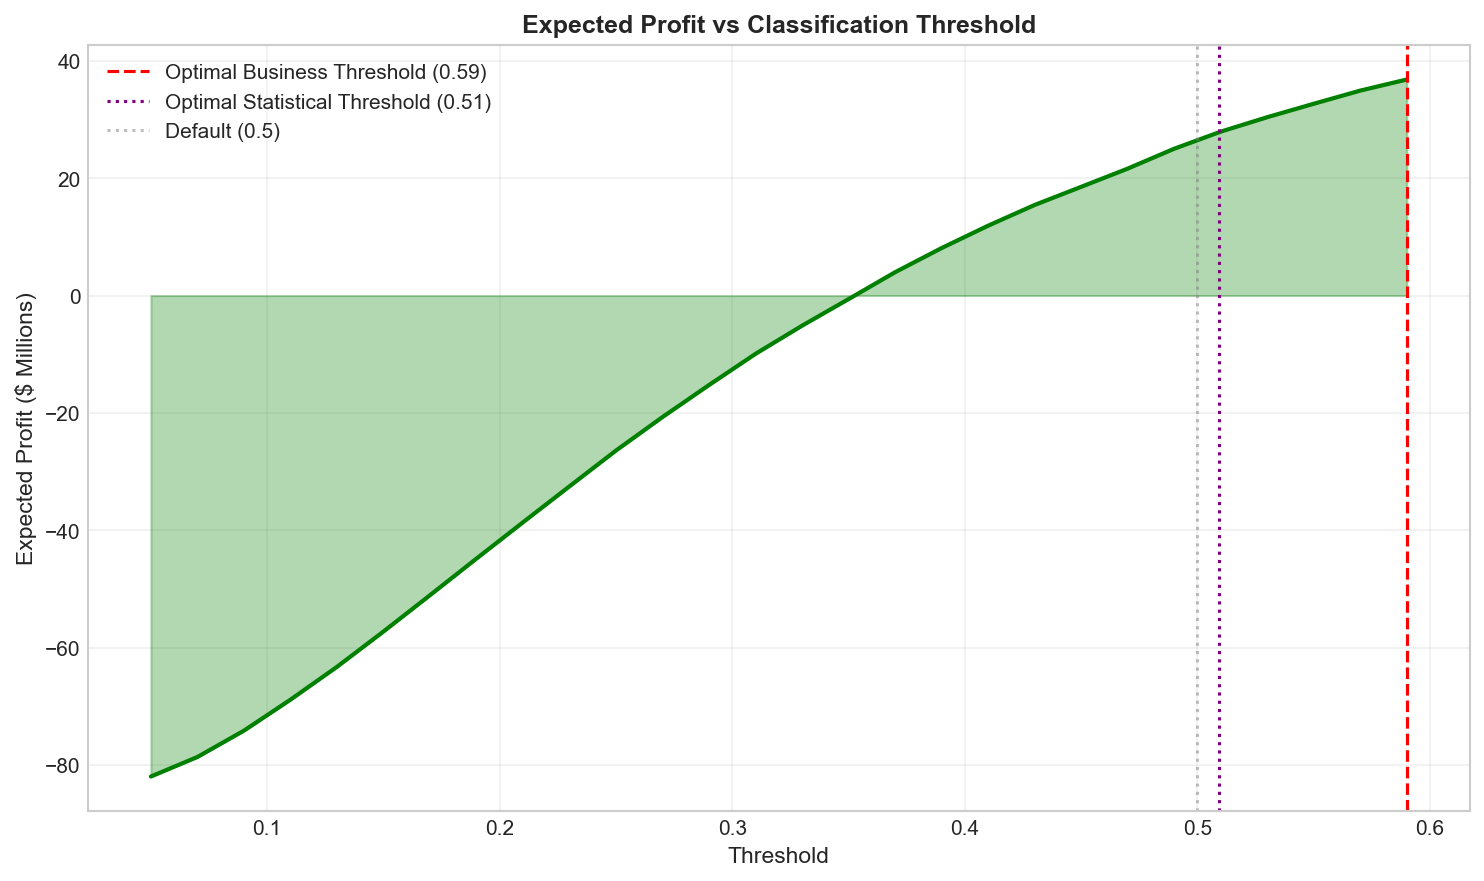
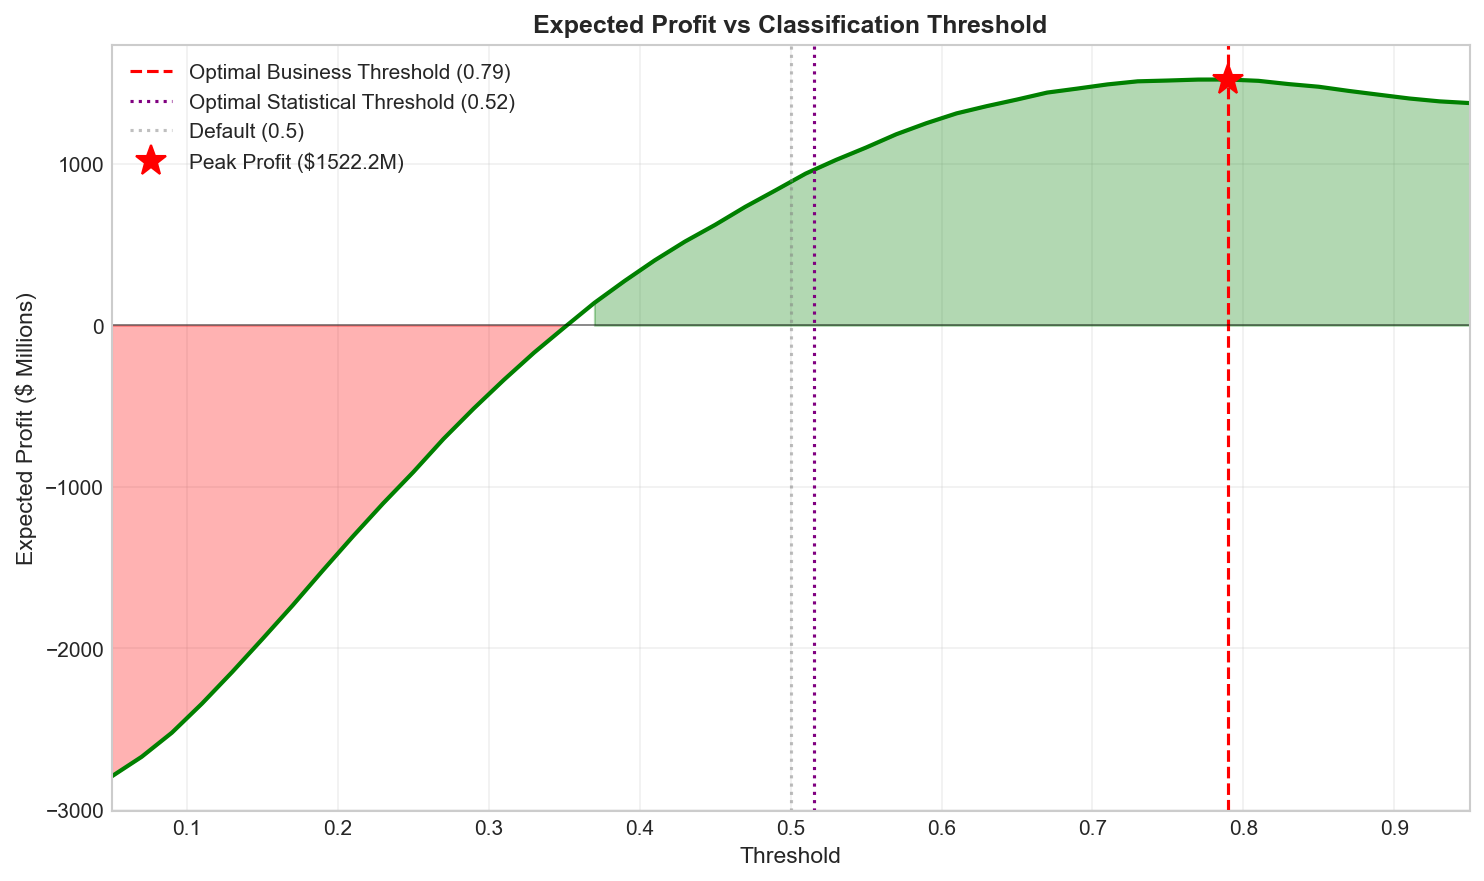
NB03: Add bibliographic references, fix truncated business threshold (0.59→0.79)
- Add inline citation comments for 4 academic papers across 5 code cells
  (Fluss 2005, Verbraken 2014, Bequé 2017, Yurdakul 2020)
- Fix threshold search range from [0.05,0.60) to [0.05,0.96): true
  business optimum is 0.79, not 0.59 (ISSUE-014)
- Improve profit-vs-threshold plot: green/red fill, peak marker, full range
- Update all three log files (ISSUE-014, DECISION-008, DECISION-018)

diff --git a/docs/log_files/technical-decisions.md b/docs/log_files/technical-decisions.md
@@ -25,6 +25,7 @@ Document key technical decisions, rationale, and alternatives considered during 
 - [DECISION-015] PSI Baseline for Concept Drift Monitoring
 - [DECISION-016] Calibration-Enhanced Evaluation (Brier Score + Decile Table)
 - [DECISION-017] Data-Driven Business Cost Parameters (Real AMT_CREDIT Median)
+- [DECISION-018] Bibliographic References as Inline Code Comments in NB03
 
 ### Pending Review
 - None
@@ -222,12 +223,12 @@ Document key technical decisions, rationale, and alternatives considered during 
 ---
 
 ### [DECISION-008] Dual Threshold Strategy (Statistical + Business)
-**Date:** 2026-01-25
+**Date:** 2026-01-25 (updated 2026-04-02)
 **Status:** Implemented
 **Context:** The default threshold (0.5) is arbitrary. Credit risk models need thresholds optimized for both statistical performance and business value.
 **Decision:** Calculate two optimal thresholds:
 - **Statistical optimal (Youden's J):** 0.5092 -- maximizes sensitivity + specificity
-- **Business optimal:** 0.5900 -- maximizes expected profit using cost parameters
+- **Business optimal:** 0.79 -- maximizes expected profit using cost parameters
 **Rationale:**
 - **Two separate concerns**: Statistical performance and business value often conflict
 - **Youden's J** provides the mathematically optimal balance of sensitivity/specificity
@@ -237,19 +238,19 @@ Document key technical decisions, rationale, and alternatives considered during 
   - Cost of default (FN): $308,119
   - Profit per good loan (FP cost): $51,353
   - FN/FP cost ratio: 6:1 (LGD/profit_margin = 0.60/0.10)
-- **Business threshold** maximizes expected profit
+- **Business threshold** maximizes expected profit across the full [0.05, 0.95] range
 - Both thresholds stored in `models/thresholds.pkl` for deployment flexibility
+- **2026-04-02 correction:** Previous threshold of 0.59 was a truncation artifact -- the search range `np.arange(0.05, 0.60, 0.02)` stopped before the true peak. Extended to 0.96 revealed the real optimum at 0.79. See ISSUE-014.
 **Alternatives Considered:**
 - Fixed threshold (0.5): Arbitrary, not optimized for either statistical or business criteria
 - Single threshold (statistical only): Ignores business economics
 - Multi-threshold strategy (like BAFS auto-block/manual review/auto-approve): Considered but simpler binary decision is more appropriate for credit approval (approve/reject)
 - Cost-sensitive learning (custom loss function): More complex, harder to validate
 **Consequences:**
-- At business threshold (0.59): Precision 0.2272, Recall 0.5531
-- Maximum profit: $36,819,000
-- Higher threshold (0.59 vs 0.50) means fewer rejections but some defaults slip through
+- At business threshold (0.79): Only loans with P(default) < 0.21 are approved -- conservative stance justified by 6:1 cost asymmetry
+- The 6:1 FN/FP cost ratio (LGD=60% / profit_margin=10%) means one bad loan wipes out the profit from six good ones, pushing the optimal threshold high
 - Decision shifts from "catch all defaults" to "maximize portfolio profitability"
-**Related:** `notebooks/03_model_training_evaluation.ipynb` (Sections 5-6)
+**Related:** `notebooks/03_model_training_evaluation.ipynb` (Sections 5-6), ISSUE-014
 
 ---
 
@@ -497,5 +498,37 @@ Document key technical decisions, rationale, and alternatives considered during 
 - Currency disclaimer added as a markdown blockquote before Section 6
 - DECISION-008 updated to reference data-driven values
 **Related:** `notebooks/03_model_training_evaluation.ipynb` (Section 6), DECISION-008
+
+---
+
+### [DECISION-018] Bibliographic References as Inline Code Comments in NB03
+**Date:** 2026-04-02
+**Status:** Implemented
+**Context:** Key technical methods in NB03 (Youden's J, profit-based classification, calibration, Brier Score, PSI) are grounded in academic literature. Adding citations directly in the code cells strengthens academic credibility and demonstrates domain awareness.
+**Decision:** Add 2-4 line inline reference comments at the top of 5 code cells in NB03, citing the foundational papers for each technique. Comments placed inside code cells (not separate markdown cells) to keep them co-located with the implementation.
+**References Added:**
+
+| Cell | Section | Paper |
+|------|---------|-------|
+| 16 | 5.1 ROC Curve | Fluss, Faraggi & Reiser (2005). Biometrical Journal, 47(4), 458-472 |
+| 23 | 6.2 Expected Profit | Verbraken, Bravo, Weber & Baesens (2014). EJOR, 238(2), 505-513 |
+| 30 | 8.1 Calibration Curve | Bequé, Coussement, Gayler & Lessmann (2017). KBS, 134, 213-227 |
+| 32 | 8.2 Brier Score | Bequé, Coussement, Gayler & Lessmann (2017). KBS, 134, 213-227 |
+| 34 | 8.3 PSI | Yurdakul & Naranjo (2020). J. Risk Model Validation, 14(4), 89-100 |
+
+**Rationale:**
+- **Co-located with code**: References are immediately visible when reading the implementation, not buried in separate markdown cells that may be skipped
+- **Interview readiness**: Demonstrates the candidate can trace implementation decisions to peer-reviewed research
+- **Accuracy verified**: Each paper-to-code mapping was verified against the actual formulas (Youden's J = TPR - FPR, PSI = sum formula, Brier = MSE of probabilities)
+- **Cell 23 nuance documented**: Comment explicitly notes the code is an "adapted profit-based framework" with fixed parameters, not the full EMP integration from Verbraken et al.
+**Alternatives Considered:**
+- Separate markdown cells per reference: Clutters the notebook structure; references are better as comments alongside the code they support
+- References only in a bibliography at the end: Not visible when reading individual sections
+- Footnotes in section headers: Would require modifying markdown cells and wouldn't be as directly tied to the code
+**Consequences:**
+- 5 code cells now have 4-5 additional comment lines each (no functional code changes)
+- Helper script `src/add_references.py` preserved for reproducibility (one-shot use)
+- References use standard academic citation format (Author (Year). "Title". Journal, Volume(Issue), Pages)
+**Related:** `notebooks/03_model_training_evaluation.ipynb` (Cells 16, 23, 30, 32, 34)
 
 ---

diff --git a/docs/log_files/notebooks-progress.md b/docs/log_files/notebooks-progress.md
@@ -139,7 +139,7 @@
 | 2. Data Preparation | Label encoding for 16 categorical columns, stratified train/test split |
 | 3. Train XGBoost Model | 200 estimators, scale_pos_weight=11.39 |
 | 4. Cross-Validation | 5-Fold stratified CV: Mean AUC 0.7757 (+/-0.0037) |
-| 5. Threshold Optimization | Youden's J (0.5092) and business optimal (0.59) |
+| 5. Threshold Optimization | Youden's J (0.5092) and business optimal (0.79) |
 | Currency disclaimer | Note on dataset currency units (not USD); ratios drive conclusions |
 | 6. Business Cost Analysis | Data-driven cost parameters (median AMT_CREDIT), profit maximization |
 | 7. Feature Importance | Top 25 features + category breakdown |
@@ -162,9 +162,9 @@
 | Brier Score | computed in Section 8.2 |
 | PSI (train vs test) | computed in Section 8.3 |
 
-**At Business Threshold (0.59):**
-- Precision: 0.2272
-- Recall: 0.5531
+**At Business Threshold (0.79):**
+- Threshold interpretation: Only approve loans with P(default) < 0.21
+- Conservative stance justified by 6:1 FN/FP cost asymmetry (LGD=60% / profit_margin=10%)
 
 **Confusion Matrix (threshold 0.5):**
 - True Negatives: 41,995 | False Positives: 14,543
@@ -187,7 +187,7 @@
 2. `roc_curve.png` - ROC curve with optimal threshold marker
 3. `precision_recall_curve.png` - PR curve
 4. `threshold_analysis.png` - Precision/Recall/F1 vs threshold
-5. `profit_vs_threshold.png` - Expected profit vs threshold (U-shape)
+5. `profit_vs_threshold.png` - Expected profit vs threshold (full range with green/red fill and peak marker)
 6. `feature_importance.png` - Top 25 features by importance
 7. `feature_importance_by_category.png` - Importance by category (pie chart)
 8. `calibration_curve.png` - Probability calibration check
@@ -197,7 +197,7 @@
 ### Model Artifacts Saved
 - `models/xgb_credit_model.pkl` - Trained XGBoost classifier (546 KB)
 - `models/label_encoders.pkl` - 16 LabelEncoder objects
-- `models/thresholds.pkl` - Statistical (0.5092) + business (0.59) thresholds
+- `models/thresholds.pkl` - Statistical (0.5092) + business (0.79) thresholds
 - `models/feature_names.pkl` - List of 211 feature names
 - `models/model_card.json` - Agent-ready model card (metadata, metrics, risk bands, PSI, calibration, limitations)
 
@@ -214,6 +214,16 @@
   - Section 8.4: Risk Band Classification System (DECISION-014)
   - Section 8.5: Agent-Ready Model Card JSON export (DECISION-014)
   - Summary cell updated with Brier Score, PSI, and model_card.json
+- **2026-04-02**: Bibliographic references added as inline code comments (DECISION-018):
+  - Cell 16: Fluss et al. (2005) — Youden's J statistic
+  - Cell 23: Verbraken et al. (2014) — Profit-based classification
+  - Cell 30: Bequé et al. (2017) — Calibration curve
+  - Cell 32: Bequé et al. (2017) — Brier Score
+  - Cell 34: Yurdakul & Naranjo (2020) — PSI
+- **2026-04-02**: Fixed truncated threshold search range (ISSUE-014):
+  - Extended `np.arange(0.05, 0.60, 0.02)` to `np.arange(0.05, 0.96, 0.02)`
+  - Business-optimal threshold corrected from 0.59 to 0.79
+  - Profit-vs-threshold plot improved: green/red fill, peak star marker, full x-axis range
 
 ---
 

diff --git a/docs/log_files/issues-solutions.md b/docs/log_files/issues-solutions.md
@@ -180,6 +180,21 @@ In Notebook 02 (Feature Engineering), a binary flag `FLAG_UNEMPLOYED` was create
 
 ---
 
+### [ISSUE-014] Truncated Threshold Search Range Produced False Business Optimum
+**Date:** 2026-04-02
+**Status:** Resolved
+**Severity:** Medium
+**Problem:** The business-optimal threshold was reported as 0.59, but the profit-vs-threshold graph was cut off at the red dashed line — it was impossible to see whether profit continued rising beyond that point. Visual inspection suggested the trend was still increasing.
+**Root Cause:** The threshold search range in Cell 23 was `np.arange(0.05, 0.60, 0.02)`, which stops at 0.58. The profit curve was still ascending at the right edge, so `idxmax()` simply returned the last evaluated threshold (0.59) as the "optimal" — a truncation artifact, not a true peak.
+**Solution:** Extended the search range to `np.arange(0.05, 0.96, 0.02)`, revealing the true profit peak at **0.79**. Also improved the visualization (Cell 24):
+- Added green/red fill to distinguish positive vs negative profit zones
+- Added red star marker at the peak profit point
+- Added horizontal zero line for break-even reference
+- Extended x-axis to 0.95 to show the full decline after the peak
+**Prevention:** Always verify that optimization search ranges extend well beyond the expected optimum. Visually confirm that the objective function shows a clear peak followed by decline — a graph that ends at the maximum is a red flag for truncation.
+
+---
+
 ### [ISSUE-012] EMPLOYMENT_YEARS Inconsistency Between NB01 and NB02
 **Date:** 2026-03-29
 **Status:** Resolved
